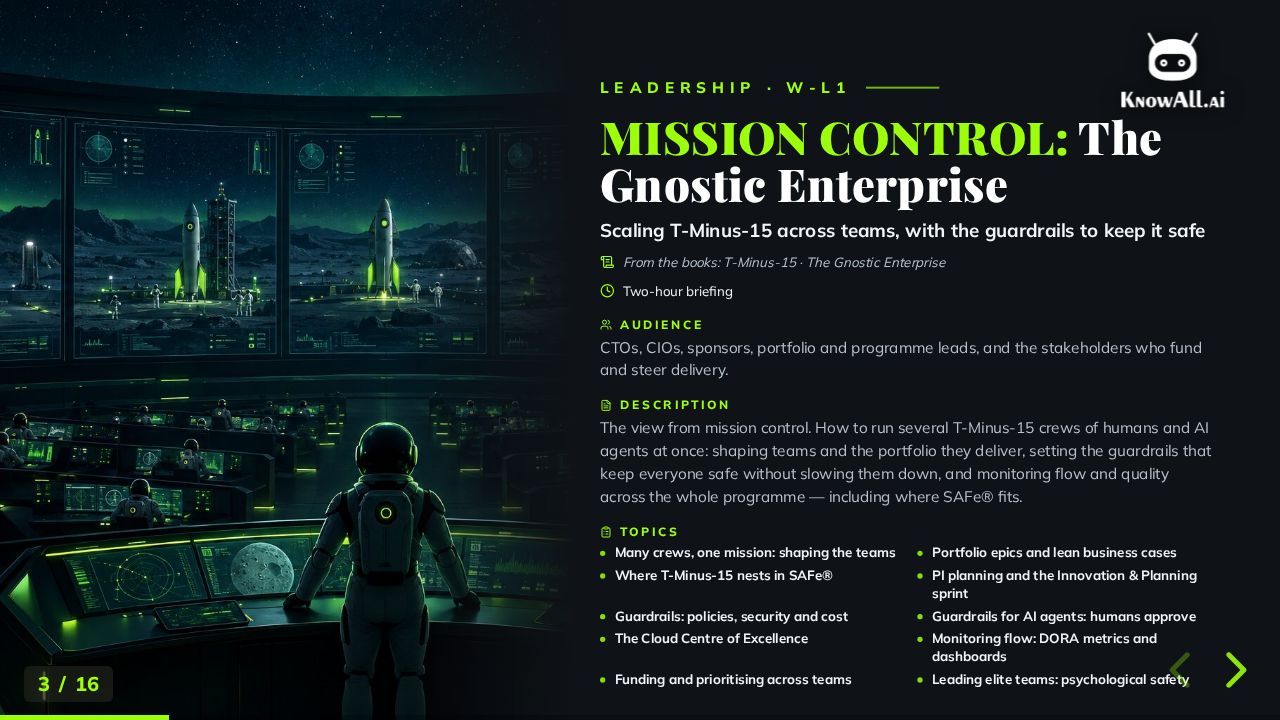
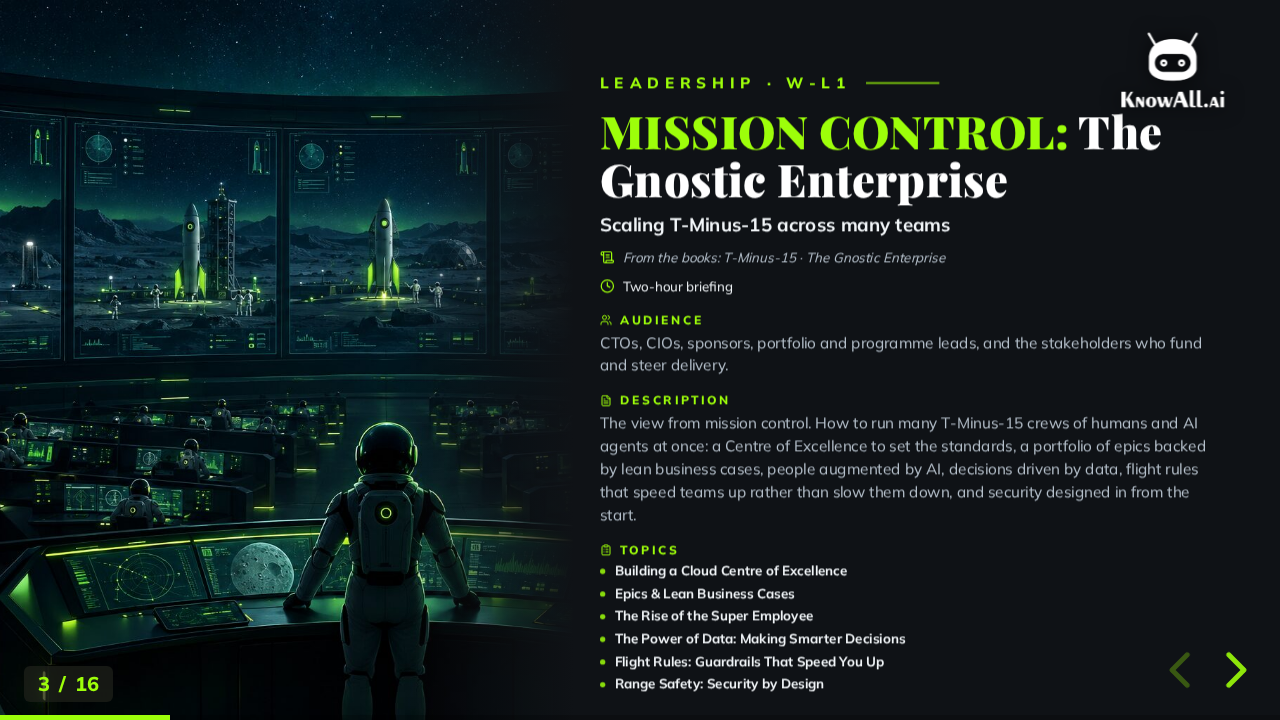
feat(presentations): W-L1 topics follow The Gnostic Enterprise's chapters
Subtitle "Scaling T-Minus-15 across many teams"; topics now match the
book's chapters: Building a Cloud Centre of Excellence, Epics & Lean
Business Cases, The Rise of the Super Employee, The Power of Data: Making
Smarter Decisions, Flight Rules: Guardrails That Speed You Up, and Range
Safety: Security by Design (a new chapter in progress). Description and
chat site index updated to match.

Changed region(s): [[0.4688, 0.55, 0.9375, 0.9778], [0.4688, 0.0917, 0.9375, 0.5194]]

diff --git a/app/api/chat/site-index.ts b/app/api/chat/site-index.ts
@@ -27,7 +27,7 @@ Presentations (https://www.knowall.ai/presentations/) — our slide decks, each 
 - AI Discovery Workshop (https://www.knowall.ai/presentations/ai-discovery.html): the one-day workshop, €2,000 fixed price. Pre-work surveys, an on-site workshop, one-to-one interviews, a value-versus-effort prioritisation (quick wins, major projects, fill-ins, reconsider) and a report with lean business cases. The ideal first step before a Proto-Sprint or project. Best for: "where should we start with AI?", what the Discovery Day involves and costs, how we decide which ideas are worth doing, building a business case.
 - CISP, the Continuous Improvement Service Plan (https://www.knowall.ai/presentations/cisp.html): ongoing support after go-live via pre-purchased time-and-material blocks, typically a twelve-month term, covering Microsoft, AI and custom solutions. Tiers: Gold (4-hour response, 1 business day; Strategic €1,250/day, delivery roles €950/day), Silver (8 hours, 2 business days; €1,200 / €900), Bronze (16 hours, 3 business days; €1,150 / €850). Delivery roles: Prepper, Designer, Engineer, Tester, Operator, Scrum Master. Best for: support after go-live, how a CISP is priced, SLA response times, day rates, buying a block of hours instead of a project.
 - The Purple Team (https://www.knowall.ai/presentations/purple-team.html): continuous AI security. The CVE flood and CISA's exploited list, frontier models on defence, Pennie, Ollie and Poppie, the attack, defend, fix, report loop, advisory-to-merged-fix patching, safe-by-design rules, the tools it works with, the Purple Team Portal, hosted or in-tenant or fully sovereign, and paying by real hours on a CISP after a Security Discovery. Best for: how the Purple Team works, is it safe, where it runs, how it is paid for.
-- T-Minus-15 Workshops (https://www.knowall.ai/presentations/tminus15-workshops.html): capability-building workshops that teach a client's own team to deliver the T-Minus-15 way, one slide per workshop with its audience, description and topics. Seven methodology workshops for the whole delivery team, one for each stage of the lifecycle and each built on the T-Minus-15 book: W-M0 Assemble: The Avengers of Agile (Agile, Scrum, Kanban, DevOps and assembling a cross-functional squad), W-M1 Plan: plotting the course (sprint goals, story point estimation, capacity, roadmaps and incremental releases), W-M2 Prep (decoding the client's wants and needs, the product backlog, epics, features and stories), W-M3 Design (crafting UX that doesn't suck, agentic design, brand guidelines), W-M4 Engineer (the art of engineering), W-M5 Test (raising the bar: acceptance criteria, test plans, automated, security, performance and user acceptance testing) and W-M6 Operate (shipping value: CI/CD, branching, infrastructure-as-code, release pipelines). Five technology workshops, in any order: W-T1 Azure DevOps, W-T2 Dataverse vs SharePoint vs SQL, W-T3 Power Platform including Code Apps (can run as a series), W-T4 CI/CD and W-T5 agentic coding with tools such as Claude Code. Each workshop is typically half a day; technology workshops can be followed by deeper dives on specific subjects. Plus a two-hour leadership briefing for CTOs, sponsors and stakeholders, W-L1 Mission Control: The Gnostic Enterprise (scaling T-Minus-15 across teams, guardrails for people and AI agents, monitoring flow with DORA metrics, portfolio funding, and where SAFe fits), drawing on the T-Minus-15 book and The Gnostic Enterprise. Best for: training a client's team in our methodology, which workshop suits which role, what each workshop covers.
+- T-Minus-15 Workshops (https://www.knowall.ai/presentations/tminus15-workshops.html): capability-building workshops that teach a client's own team to deliver the T-Minus-15 way, one slide per workshop with its audience, description and topics. Seven methodology workshops for the whole delivery team, one for each stage of the lifecycle and each built on the T-Minus-15 book: W-M0 Assemble: The Avengers of Agile (Agile, Scrum, Kanban, DevOps and assembling a cross-functional squad), W-M1 Plan: plotting the course (sprint goals, story point estimation, capacity, roadmaps and incremental releases), W-M2 Prep (decoding the client's wants and needs, the product backlog, epics, features and stories), W-M3 Design (crafting UX that doesn't suck, agentic design, brand guidelines), W-M4 Engineer (the art of engineering), W-M5 Test (raising the bar: acceptance criteria, test plans, automated, security, performance and user acceptance testing) and W-M6 Operate (shipping value: CI/CD, branching, infrastructure-as-code, release pipelines). Five technology workshops, in any order: W-T1 Azure DevOps, W-T2 Dataverse vs SharePoint vs SQL, W-T3 Power Platform including Code Apps (can run as a series), W-T4 CI/CD and W-T5 agentic coding with tools such as Claude Code. Each workshop is typically half a day; technology workshops can be followed by deeper dives on specific subjects. Plus a two-hour leadership briefing for CTOs, sponsors and stakeholders, W-L1 Mission Control: The Gnostic Enterprise (scaling T-Minus-15 across many teams: building a Cloud Centre of Excellence, epics and lean business cases, the rise of the super employee, the power of data, flight rules that speed teams up, and range safety: security by design), drawing on the T-Minus-15 book and The Gnostic Enterprise. Best for: training a client's team in our methodology, which workshop suits which role, what each workshop covers.
 Prices are in euros as shown in the decks; for a quote, invite the visitor to email you (sallie@knowall.ai) or book a Discovery Day. Every deck's closing slide gives [hello@knowall.ai](mailto:hello@knowall.ai) as the contact.
 
 Our other products and sites (one line each; link them when they fit):

diff --git a/public/presentations/tminus15-workshops.html b/public/presentations/tminus15-workshops.html
@@ -432,7 +432,7 @@
             <div class="ws-head">
               <p class="kicker">Leadership &middot; W-L1</p>
               <h2><span class="ws-phase">Mission Control:</span> The Gnostic Enterprise</h2>
-              <p class="ws-sub">Scaling T-Minus-15 across teams, with the guardrails to keep it safe</p>
+              <p class="ws-sub">Scaling T-Minus-15 across many teams</p>
               <p class="ws-chapter"><svg class="ic" aria-hidden="true"><use href="icons.svg#i-scroll-text" /></svg><span>From the books: T-Minus-15 &middot; The Gnostic Enterprise</span></p>
               <p class="ws-chapter ws-duration"><svg class="ic" aria-hidden="true"><use href="icons.svg#i-clock" /></svg><span>Two-hour briefing</span></p>
             </div>
@@ -442,21 +442,17 @@
             </div>
             <div class="ws-block">
               <h3 class="ws-label"><svg class="ic" aria-hidden="true"><use href="icons.svg#i-file-text" /></svg>Description</h3>
-              <p>The view from mission control. How to run several T-Minus-15 crews of humans and AI agents at once: shaping teams and the portfolio they deliver, setting the guardrails that keep everyone safe without slowing them down, and monitoring flow and quality across the whole programme &mdash; including where SAFe&reg; fits.</p>
+              <p>The view from mission control. How to run many T-Minus-15 crews of humans and AI agents at once: a Centre of Excellence to set the standards, a portfolio of epics backed by lean business cases, people augmented by AI, decisions driven by data, flight rules that speed teams up rather than slow them down, and security designed in from the start.</p>
             </div>
             <div class="ws-block">
               <h3 class="ws-label"><svg class="ic" aria-hidden="true"><use href="icons.svg#i-clipboard-list" /></svg>Topics</h3>
-              <ul class="ws-topics" style="--ws-cols: 2">
-                <li>Many crews, one mission: shaping the teams</li>
-                <li>Portfolio epics and lean business cases</li>
-                <li>Where T-Minus-15 nests in SAFe&reg;</li>
-                <li>PI planning and the Innovation &amp; Planning sprint</li>
-                <li>Guardrails: policies, security and cost</li>
-                <li>Guardrails for AI agents: humans approve</li>
-                <li>The Cloud Centre of Excellence</li>
-                <li>Monitoring flow: DORA metrics and dashboards</li>
-                <li>Funding and prioritising across teams</li>
-                <li>Leading elite teams: psychological safety</li>
+              <ul class="ws-topics" style="--ws-cols: 1">
+                <li>Building a Cloud Centre of Excellence</li>
+                <li>Epics &amp; Lean Business Cases</li>
+                <li>The Rise of the Super Employee</li>
+                <li>The Power of Data: Making Smarter Decisions</li>
+                <li>Flight Rules: Guardrails That Speed You Up</li>
+                <li>Range Safety: Security by Design</li>
               </ul>
             </div>
           </div>

diff --git a/presentations-src/tminus15-workshops.html b/presentations-src/tminus15-workshops.html
@@ -410,22 +410,19 @@
           "phase": "Mission Control",
           "title": "The Gnostic Enterprise",
           "duration": "Two-hour briefing",
-          "subtitle": "Scaling T-Minus-15 across teams, with the guardrails to keep it safe",
+          "subtitle": "Scaling T-Minus-15 across many teams",
           "chapterLabel": "From the books",
           "chapter": "T-Minus-15 &middot; The Gnostic Enterprise",
           "audience": "CTOs, CIOs, sponsors, portfolio and programme leads, and the stakeholders who fund and steer delivery.",
-          "description": "The view from mission control. How to run several T-Minus-15 crews of humans and AI agents at once: shaping teams and the portfolio they deliver, setting the guardrails that keep everyone safe without slowing them down, and monitoring flow and quality across the whole programme &mdash; including where SAFe&reg; fits.",
+          "description": "The view from mission control. How to run many T-Minus-15 crews of humans and AI agents at once: a Centre of Excellence to set the standards, a portfolio of epics backed by lean business cases, people augmented by AI, decisions driven by data, flight rules that speed teams up rather than slow them down, and security designed in from the start.",
+          "columns": 1,
           "topics": [
-            "Many crews, one mission: shaping the teams",
-            "Portfolio epics and lean business cases",
-            "Where T-Minus-15 nests in SAFe&reg;",
-            "PI planning and the Innovation &amp; Planning sprint",
-            "Guardrails: policies, security and cost",
-            "Guardrails for AI agents: humans approve",
-            "The Cloud Centre of Excellence",
-            "Monitoring flow: DORA metrics and dashboards",
-            "Funding and prioritising across teams",
-            "Leading elite teams: psychological safety"
+            "Building a Cloud Centre of Excellence",
+            "Epics &amp; Lean Business Cases",
+            "The Rise of the Super Employee",
+            "The Power of Data: Making Smarter Decisions",
+            "Flight Rules: Guardrails That Speed You Up",
+            "Range Safety: Security by Design"
           ]
         } -->
 
